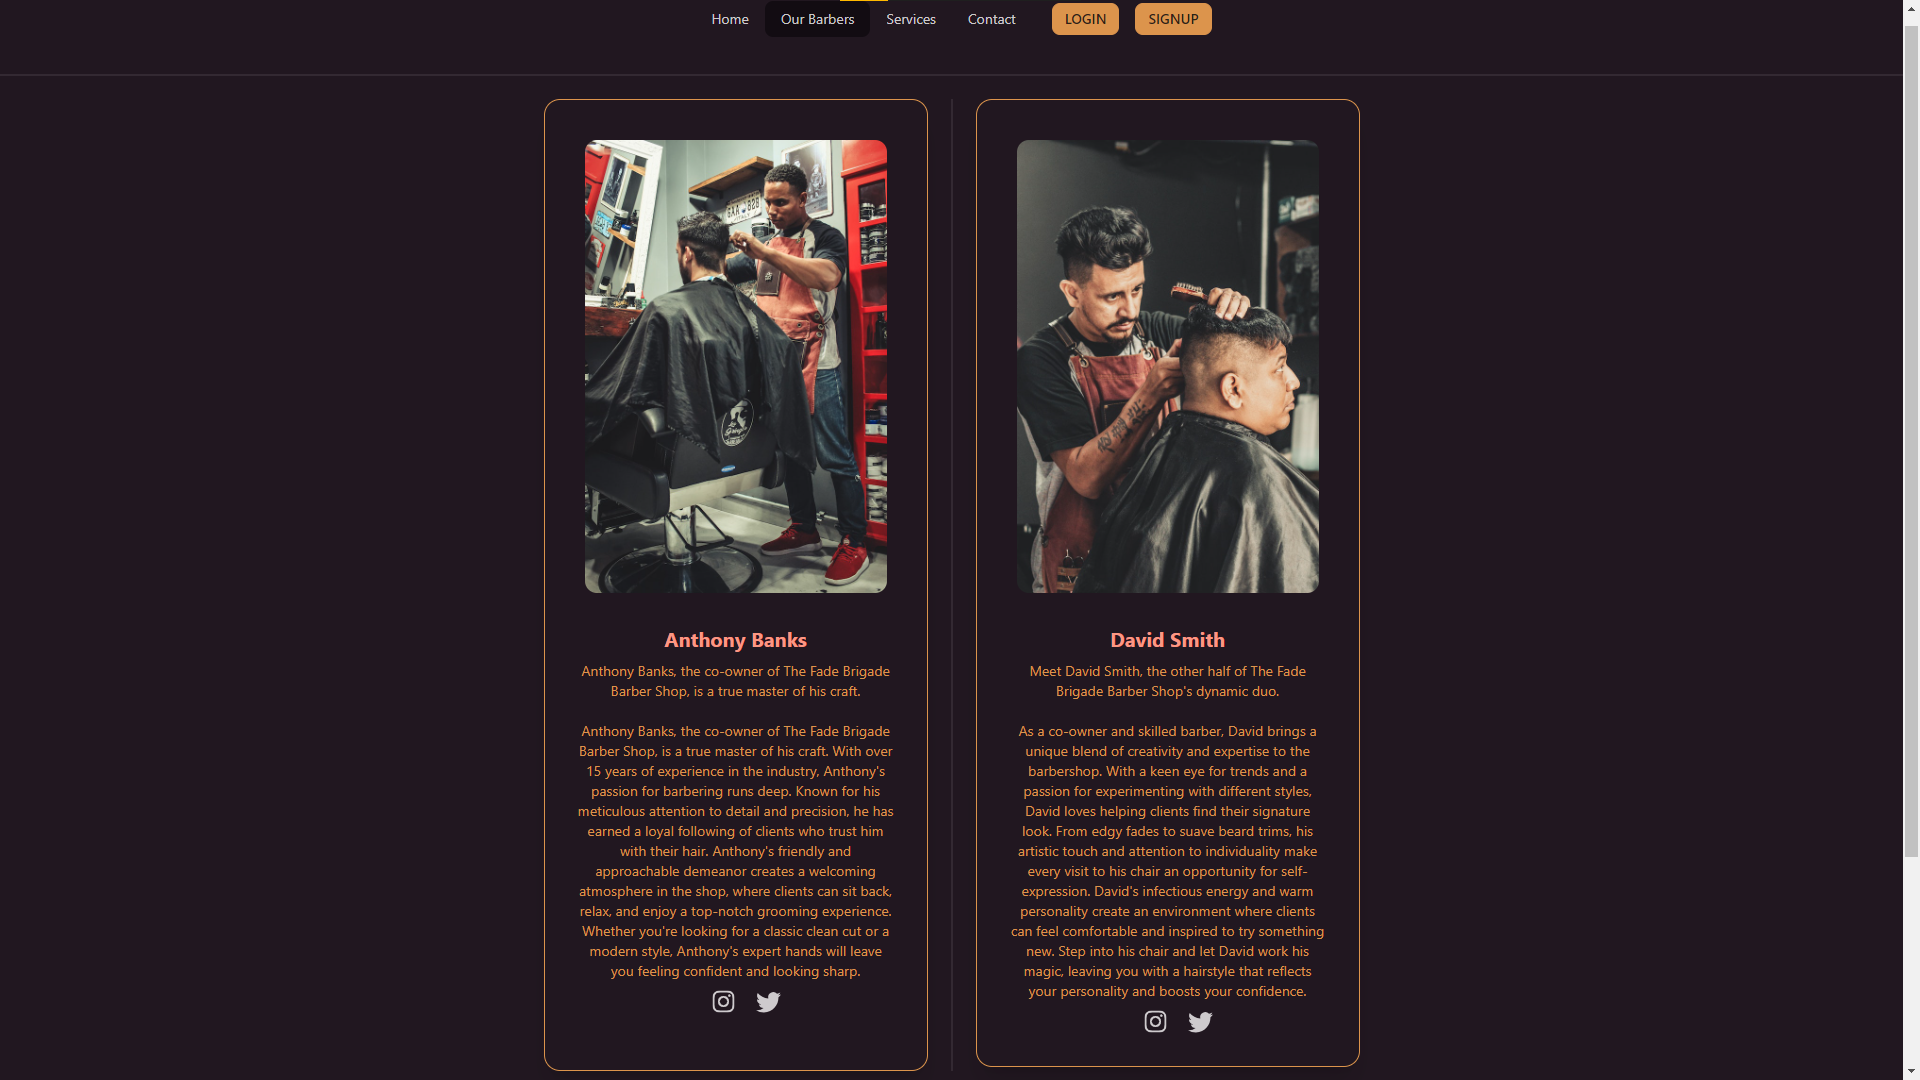
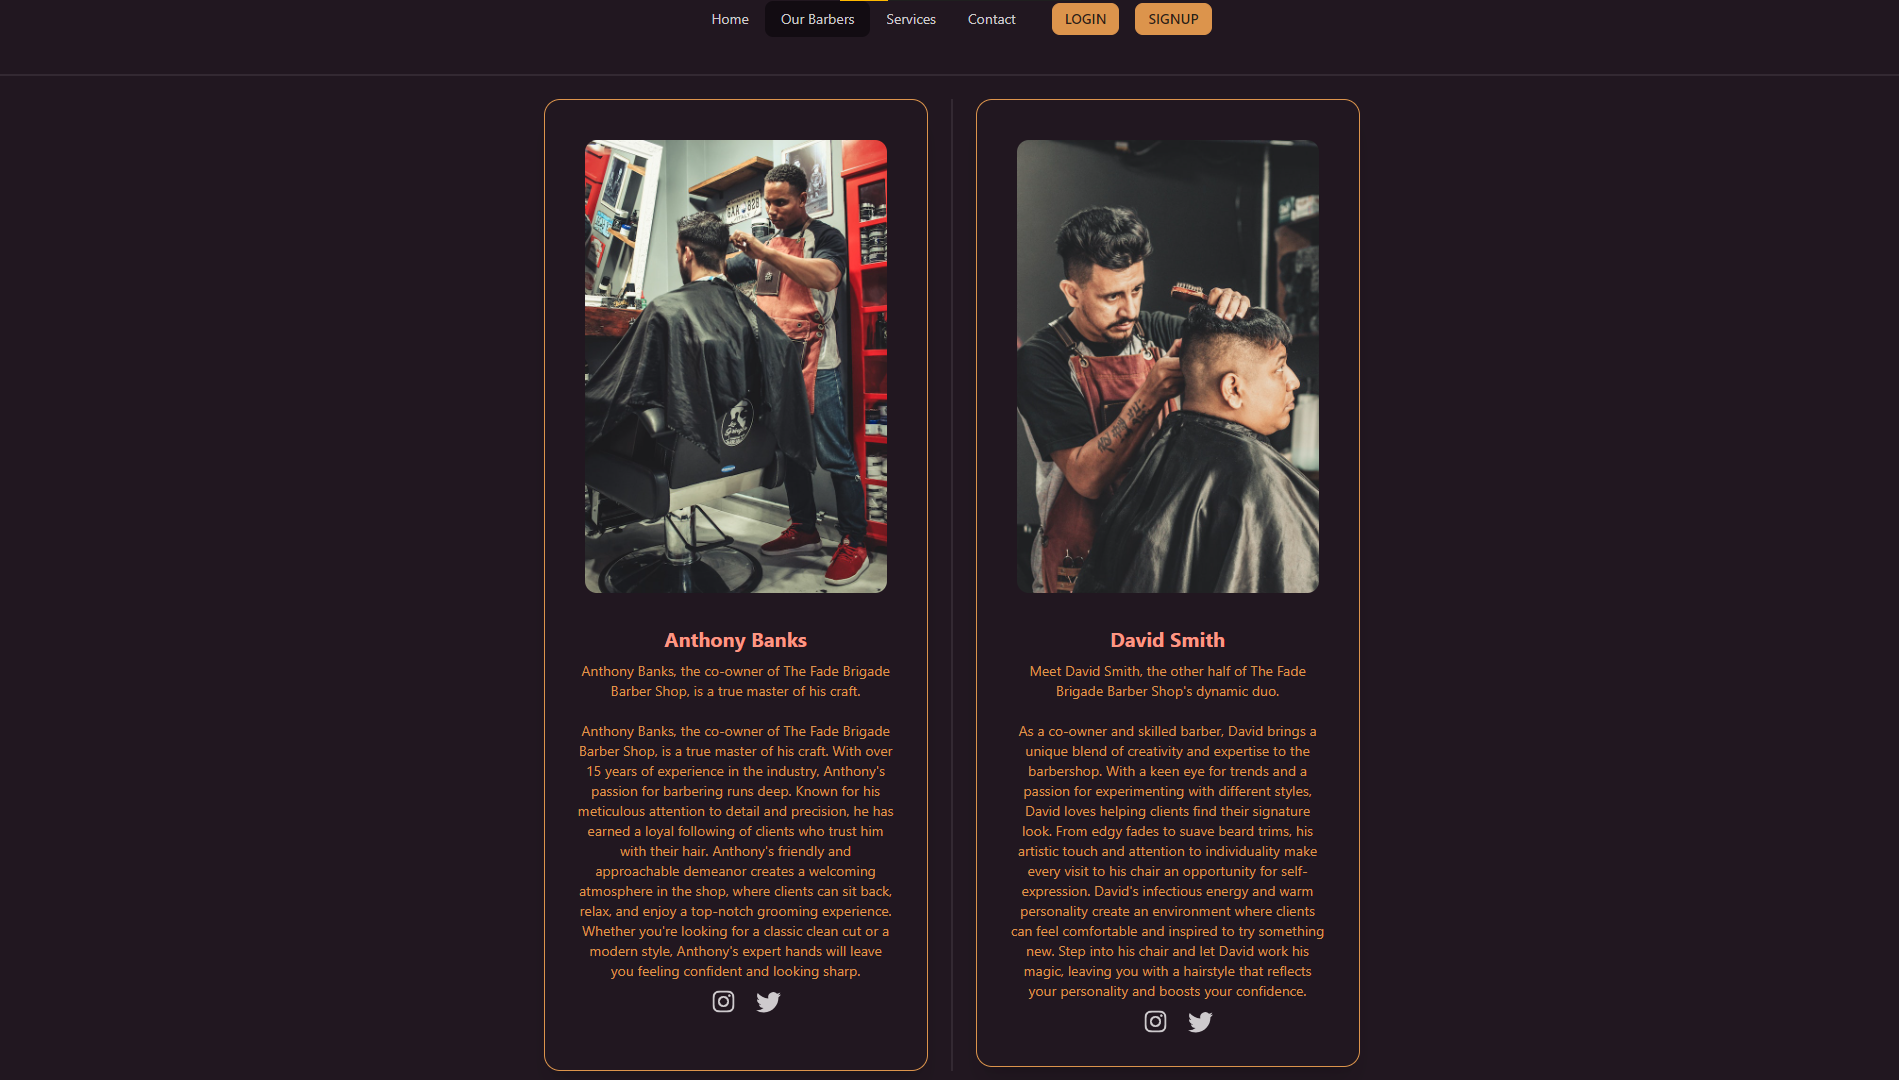
changed to fix project image responsiveness

diff --git a/src/components/pages/Projects/index.jsx b/src/components/pages/Projects/index.jsx
@@ -18,7 +18,7 @@ export default function Projects() {
           <div className="flex justify-center">
             <img
               src={project.image}
-              className="flex justify-center max-h-52 max-w-lg rounded-lg"
+              className="flex justify-center lg:max-w-lg md:max-w-md rounded-lg "
             />
           </div>
 
@@ -26,7 +26,7 @@ export default function Projects() {
 
           <div className="flex justify-around">
             <a href={project.githubLink}>
-              <Button className="shadow-lg bg-green-500/50 shadow-yellow-500/70">
+              <Button className="shadow-lg bg-navy-500/50 shadow-yellow-500/70">
                 <IoLogoGithub color="black" size="20px"></IoLogoGithub>
               </Button>
               <p className="flex justify-center ">Github</p>
@@ -35,7 +35,7 @@ export default function Projects() {
               <Button>
                 <MdRocketLaunch color="black" size="20px"></MdRocketLaunch>
               </Button>
-              <p>Deployed</p>
+              <p className="flex justify-center items-center">Demo</p>
             </a>
           </div>
         </div>
